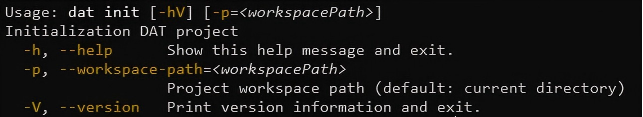
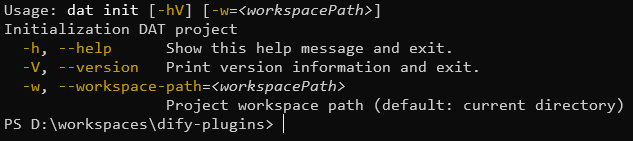
chore: update README.md dat init and run command examples (#11)
chore: update README.md dat init and run command examples

diff --git a/README.md b/README.md
@@ -241,8 +241,11 @@ dat init -h
 
 **使用示例**:
 ```bash
-# 交互式初始化
+# 交互式初始化DAT项目到当前工作目录下
 dat init
+
+# 交互式初始化DAT项目到指定项目工作空间目录下
+dat init -w ./my-workspace
 ```
 
 #### `dat run` - 智能问数
@@ -254,10 +257,13 @@ dat run -h
 
 **使用示例**:
 ```bash
-# 启动默认代理
-dat run -p ./my-project -a default
+# 当前工作目录为DAT项目目录并启动默认代理
+dat run
 
-# 启动特定代理
+# 当前工作目录为DAT项目目录并启动特定代理
+dat run -a sales-agent
+
+# 指定DAT项目目录并启动特定代理
 dat run -p ./my-project -a sales-agent
 ```
 
